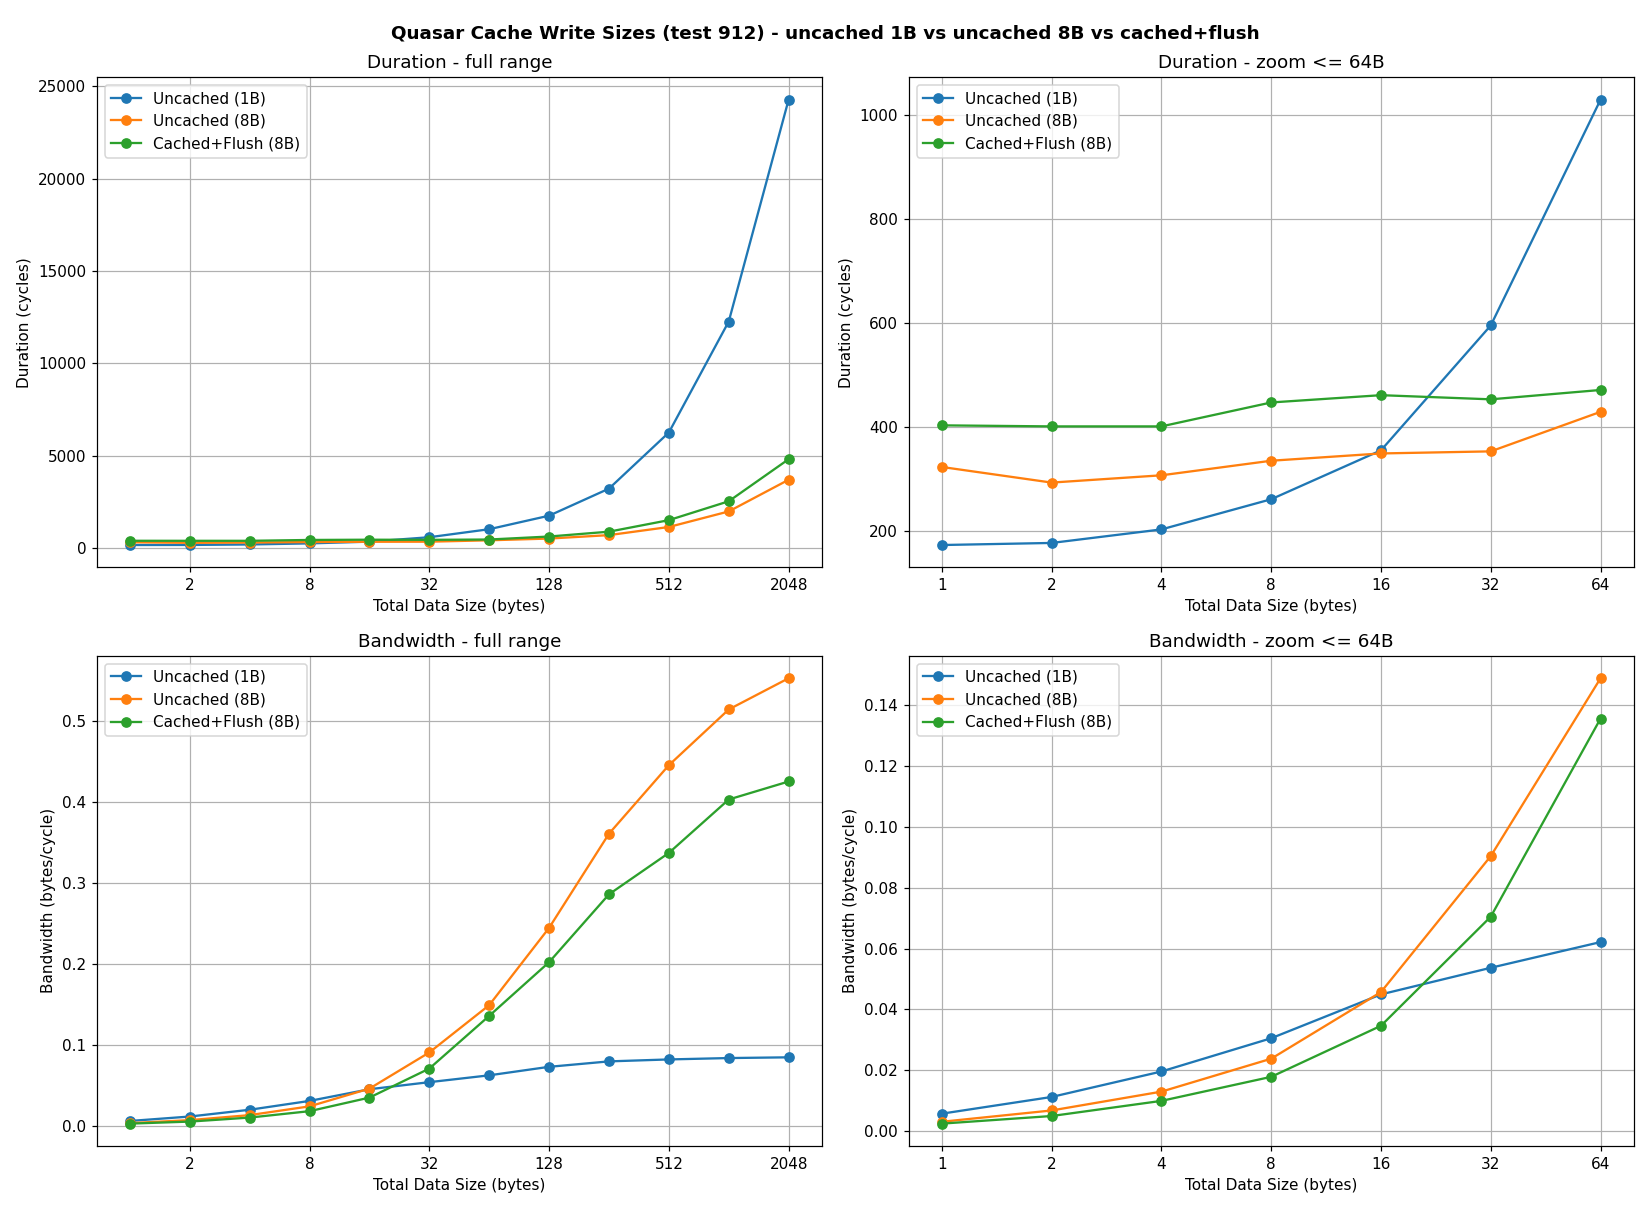
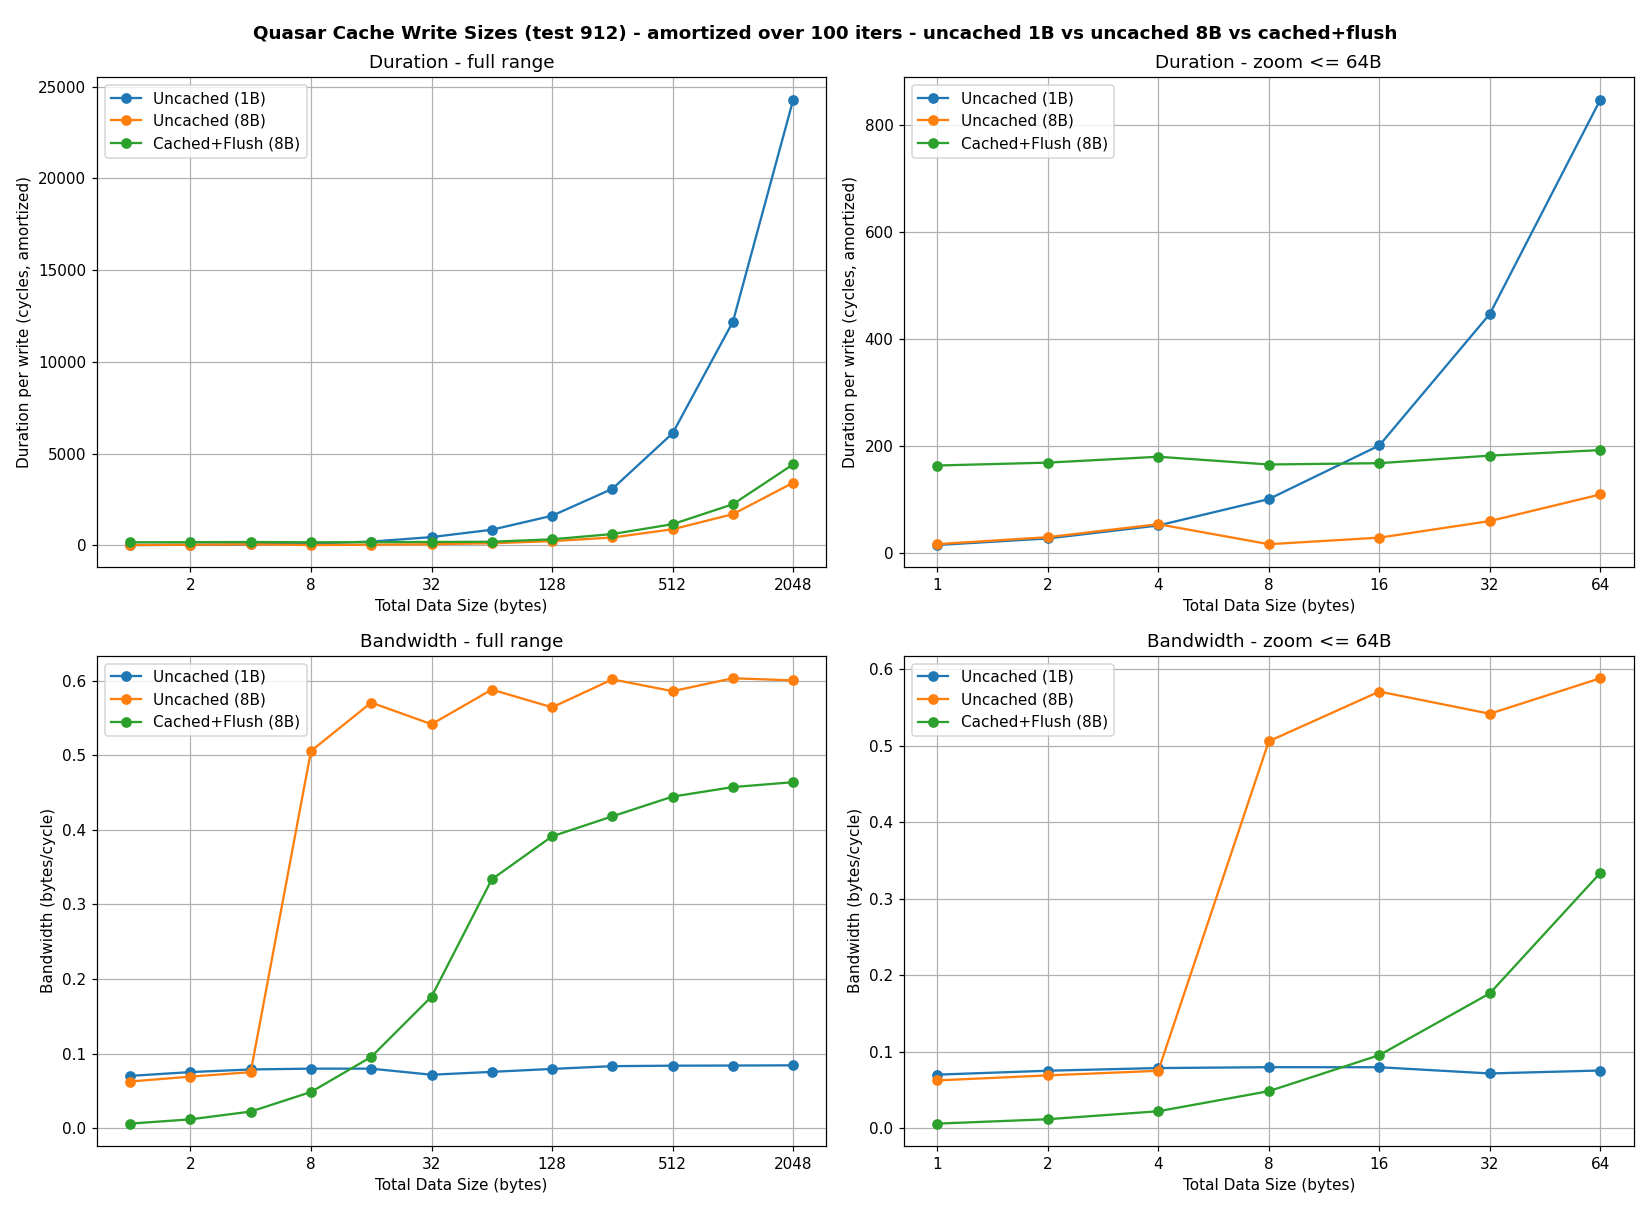
Quasar cache-write: amortized (100-iter) results + when-to-use guidance

diff --git a/data_movement_doc/perf_plots/Performance Plots.md b/data_movement_doc/perf_plots/Performance Plots.md
@@ -505,6 +505,9 @@ For more information on this primitive, refer to [README](https://github.com/ten
 ## Quasar
 
 > Results collected on the `emu-quasar-1x3` emulator (test id 912, single DM core).
+> Each timed region repeats the write(+flush) **100 times** inside one profiler zone and
+> the reported value is the zone duration divided by the iteration count, so fixed
+> per-run overhead is amortized and the numbers reflect steady-state per-write cost.
 > Because the 1x3 emulator has no fast-dispatch cores, runs execute in slow-dispatch
 > mode, under which the profiler does not increment `run_host_id`; the plotted per-run
 > values are reconstructed from the profiler CSV in execution order.
@@ -518,13 +521,20 @@ Compares single-DM-core write performance to Tensix L1, swept over total data si
 - **Uncached (8B)** — same uncached port, but 64-bit stores (the natural DM-core store width).
 - **Cached+Flush (8B)** — 64-bit cacheable stores then `flush_l2_cache_range` (`ceil(N/64)` 64B line flushes).
 
-Key takeaways:
+Key takeaways (amortized cycles per write):
 
-- **Store width dominates the uncached port.** Byte-at-a-time uncached writes are catastrophic at scale (each byte pays full TL1 latency): ~24.3k cycles for 2KB versus ~3.7k cycles for the same 2KB with 8-byte stores — roughly a 6–7x difference.
-- **Cache + flush does not help write-only, no-reuse traffic.** At a fixed 8-byte store width, `Cached+Flush (8B)` is consistently a bit *slower* than plain `Uncached (8B)` (e.g. 4818 vs 3706 cycles at 2KB) because the `ceil(N/64)` line flushes add overhead with no read-reuse benefit. The cache path would only pay off with subsequent reads or scattered sub-line updates.
-- The top row is duration (cycles); the bottom row is the same data as bandwidth (bytes/cycle); the right column zooms into the 0–64B region.
+- **Store width dominates the uncached port.** With 8-byte stores the uncached port costs ~13–14 cycles per store (e.g. 64B in ~109 cycles, 2KB in ~3.4k); byte-at-a-time is ~8x worse (2KB in ~24.3k) since each byte pays full TL1 latency. Below 8B the two uncached modes coincide (a sub-8B write is a byte write either way).
+- **`flush_l2_cache_range` has a fixed ~160-cycle floor.** `Cached+Flush (8B)` is essentially flat at ~160–190 cycles up to one cache line (64B), then grows with `ceil(N/64)` line flushes. It is slower than plain `Uncached (8B)` across the whole range for this write-only, no-reuse pattern; it would only pay off with subsequent reads or scattered sub-line updates.
+- Top row is duration (amortized cycles/write); bottom row is bandwidth (bytes/cycle); the right column zooms into the 0–64B region. The step in `Uncached (8B)` at 8B is where real 64-bit stores replace the byte tail.
 
-> Note: an earlier byte-granular-only version of this test suggested cache+flush was ~2x faster; that was an artifact of writing the uncached path one byte at a time. With realistic 8-byte stores the uncached port wins for write-only traffic.
+**When to use which (write-only to L1):**
+
+- **Any size, fire-and-forget writes → uncached port with 8-byte stores.** It is fastest at every size in this sweep; cache+flush is never faster.
+- **< 8 bytes → uncached** (store width is irrelevant below 8B). Cache+flush costs its ~160-cycle flush floor, 3–10x worse.
+- **Cache + `flush_l2_cache_range` → only with reuse.** It pays off when the written data is subsequently *read back* by the core, or when many scattered sub-64B updates coalesce in cache before a single flush. This write-only, no-reuse test does not exercise those cases, so it shows cache+flush purely as overhead.
+- The intuitive "cached beats uncached above some size" only holds against *byte-granular* uncached writes (Uncached-1B loses to cache+flush above ~16B); wide (8B) uncached beats both everywhere, so the real lesson is to use 8-byte stores.
+
+> Note: an earlier version of this test wrote byte-at-a-time and timed a single un-amortized pass, which suggested cache+flush was ~2x faster. Both were artifacts (byte-granular writes + a ~325-cycle fixed measurement overhead). With 8-byte stores and 100-iteration amortization the numbers align with prior standalone measurements (uncached ~15 cyc/store, cache+flush ~160-cycle flush floor).
 
 ![Quasar Cache Write Sizes](./quasar/images/Quasar%20Cache%20Write%20Sizes.png)
 To view these results in a table, refer to the relevant [csv](./quasar/csv/Quasar%20Cache%20Write%20Sizes.csv).
